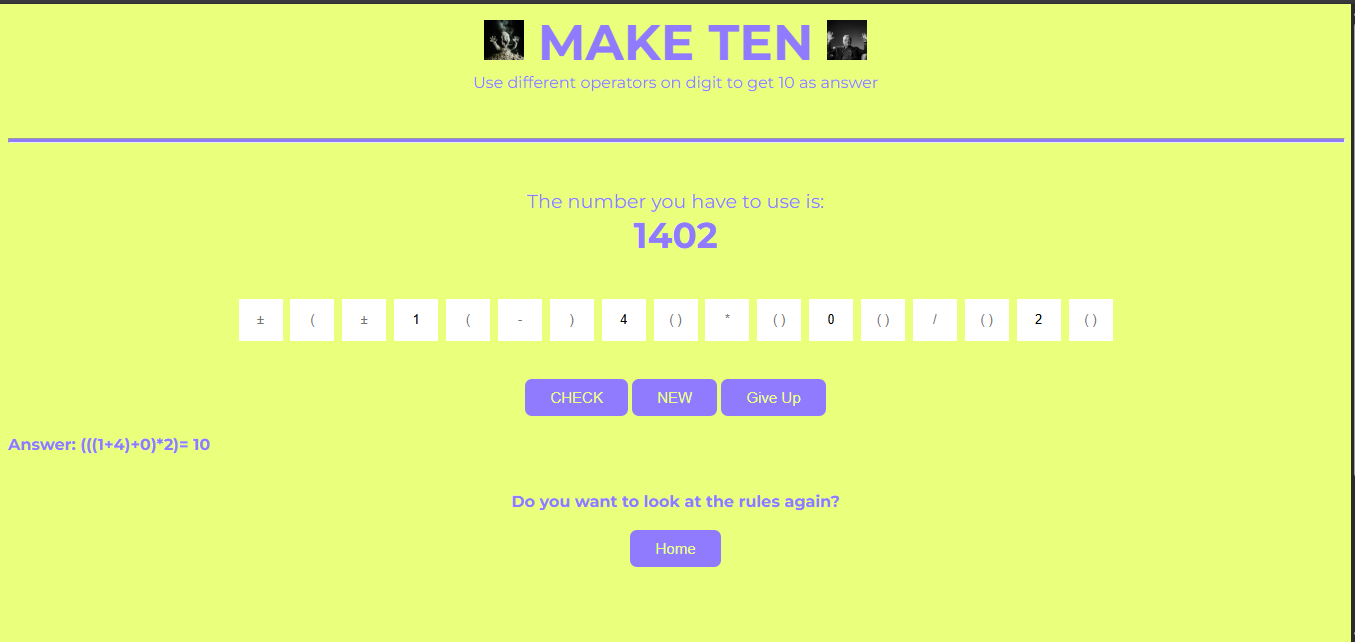
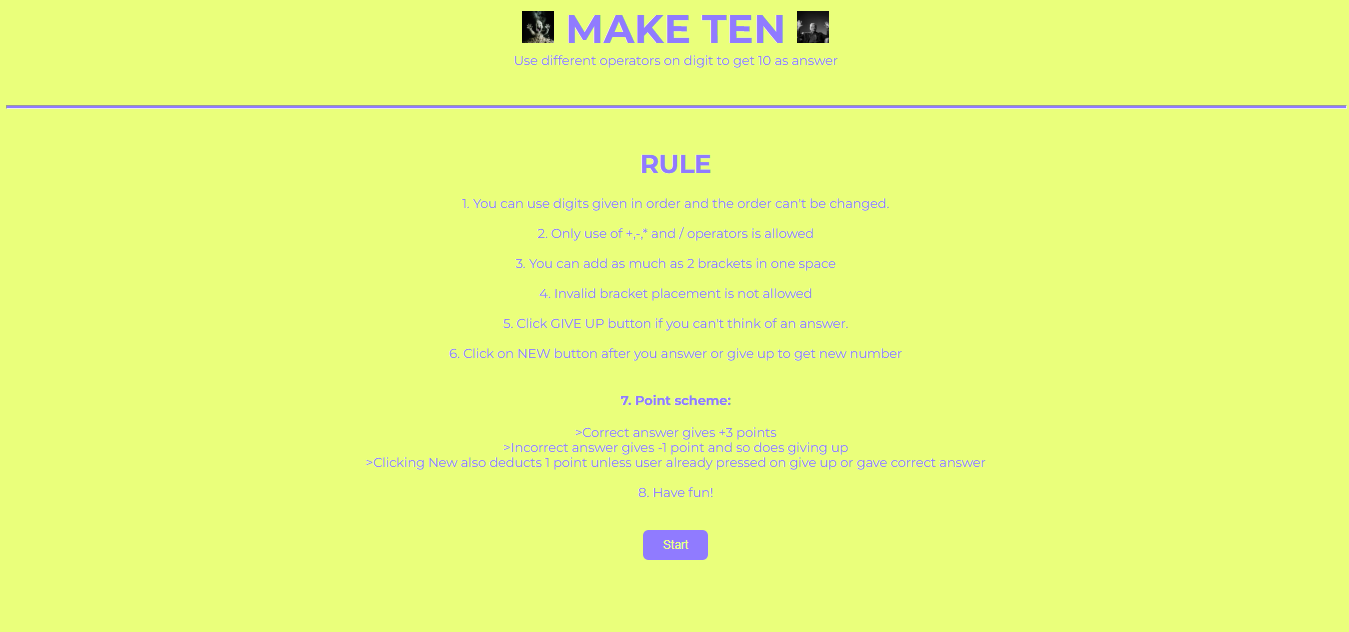
Updated readme

diff --git a/README.md b/README.md
@@ -1,8 +1,10 @@
-w # make-ten
-A web based mini-game about making ten
+# make-ten
+A web based mini-game about making ten from given 4 random numbers
+
+**THE START BUTTON IS A BIT BELOW RULES TAB , SCROLL AND CLICK ON THE START BUTTON TO PLAY**
 
 Why I built it
->I saw someone on tiktok do this and decided it would be a fun idea for a website as a beginner in this kind of stuff
+>I saw someone on tiktok do this and decided it would be a fun idea for a website as a beginner in javascript
 
 Languages used
 >HTML
@@ -24,7 +26,7 @@ AI usage:
 
 Preview:
 > Right after you visit the website , youre greeted with this 
- ![Rules tab](images/IMG_20261021_224633_302.jpg)
+![Rule page](images/image.png)
 
 >After clicking start you see something like this:
-![Actual game](images/image.png)
+![Actual game page](images/image-1.png)
